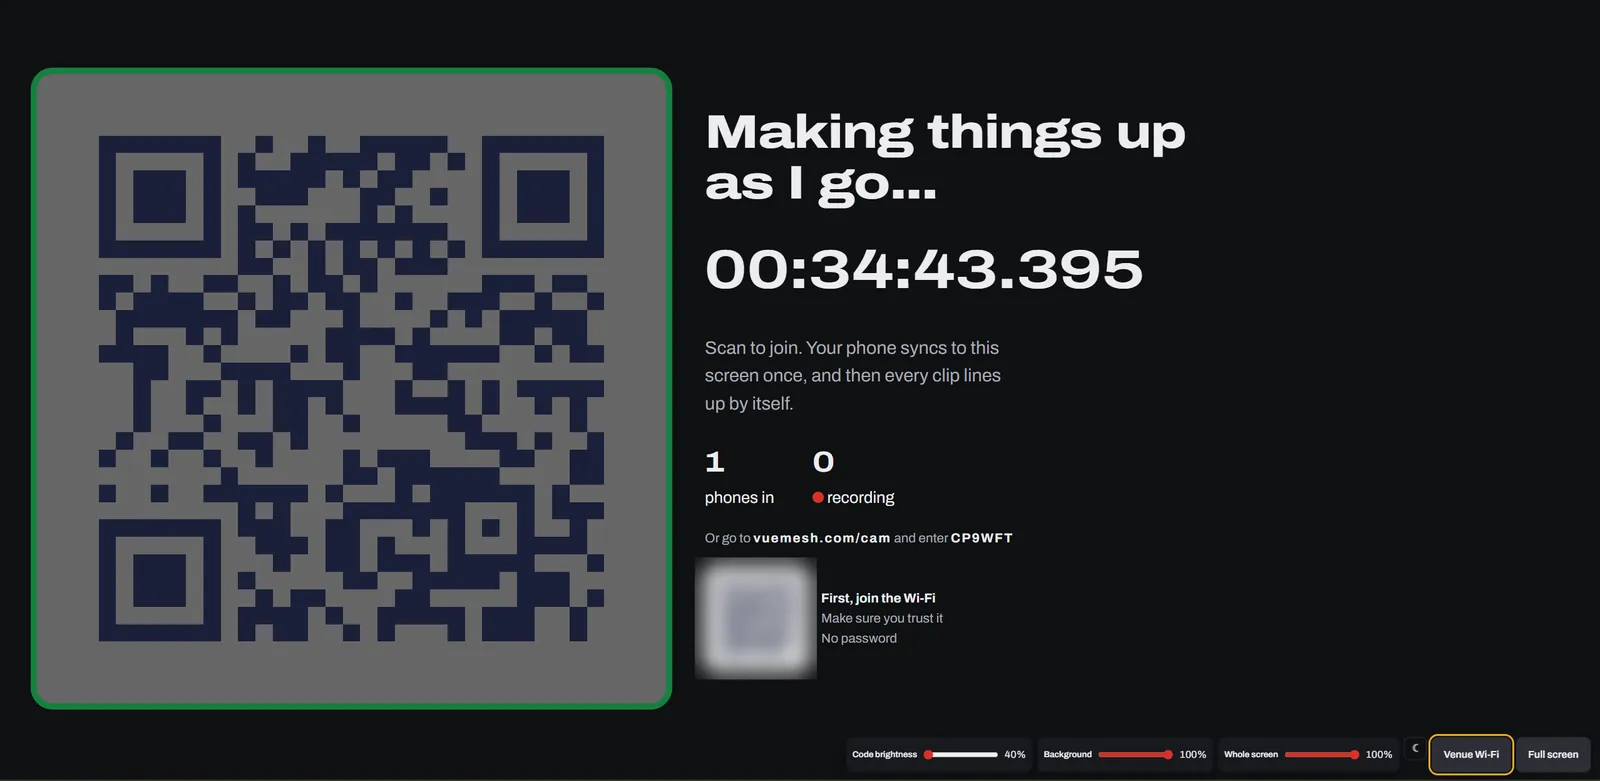
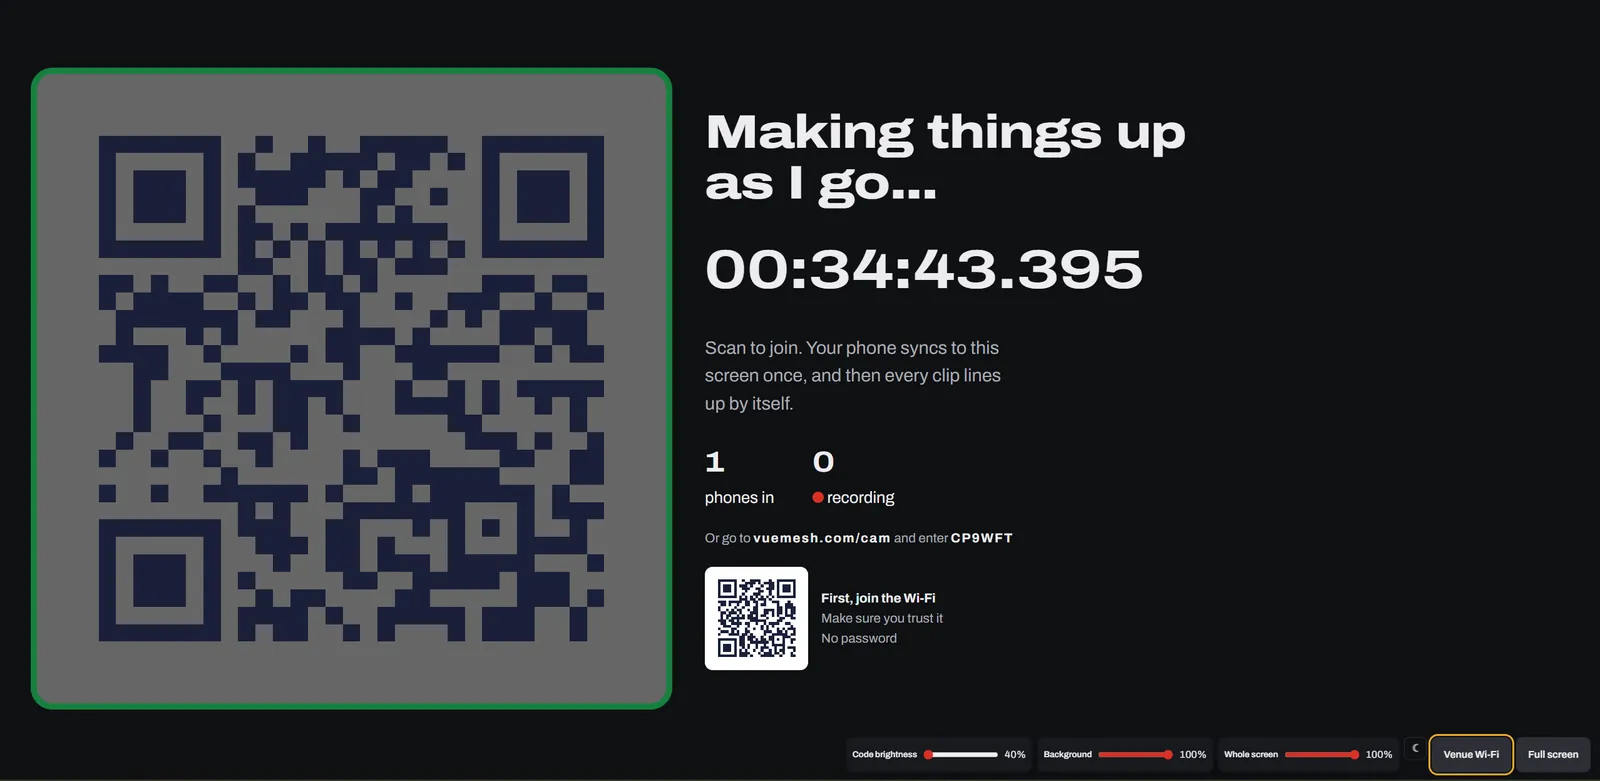
Link the tour from home and Partners; beacon picture unblurred
Claude-Session: https://claude.ai/code/session_01CCdNtZ2vnMoVWwfp3Y5omG

Changed region(s): [[0.4375, 0.7068, 0.5312, 0.8912]]

diff --git a/public/sponsors.html b/public/sponsors.html
@@ -34,6 +34,7 @@
   h1 { font-size: clamp(2.4rem, 7vw, 5rem); line-height: .95; letter-spacing: -.02em; max-width: 15ch; }
   .lede { font-size: 1.2rem; color: var(--text-2); max-width: 60ch; }
   .facts { display: flex; flex-wrap: wrap; gap: 8px; margin: 18px 0 0; padding: 0; list-style: none; }
+  .tourlink { margin: 18px 0 0; }
   .facts li { font-size: .85rem; font-weight: 600; padding: .35em .8em; border-radius: 999px; background: var(--surface); color: var(--text-2); }
   .partners { display: grid; grid-template-columns: repeat(2, minmax(0, 1fr)); gap: 14px; margin: 36px 0; }
   @media (max-width: 720px) { .partners { grid-template-columns: 1fr; } }
@@ -68,6 +69,7 @@
       <li>Video stays on the local network</li>
       <li>Built by one developer</li>
     </ul>
+    <p class="tourlink"><a class="btn" href="/tour">See every screen in the tour</a></p>
 
     <section class="partners" aria-label="Ways to partner">
       <article class="partner">

diff --git a/public/index.html b/public/index.html
@@ -566,7 +566,7 @@
 
   <section class="rig" id="setups" aria-labelledby="righ">
     <h2 id="righ">Use what's already in the drawer.</h2>
-    <p>Every screen with a browser can take a job in your show: the studio, a camera, a microphone, a screen, or the remote. Pick a setup and see how it fits together.</p>
+    <p>Every screen with a browser can take a job in your show: the studio, a camera, a microphone, a screen, or the remote. Pick a setup and see how it fits together, or <a href="/tour">take the tour of every screen</a>.</p>
     <div class="rigtabs" id="rigTabs" role="tablist" aria-label="Example setups"></div>
     <div class="flow" id="rigFlow" role="tabpanel" aria-live="polite">
       <div><h3>Sees and hears</h3><ul id="rigIn"></ul></div>

diff --git a/public/js/brand.js b/public/js/brand.js
@@ -22,4 +22,4 @@ export const sponsorContactHref = (subject = 'Partnering with VUEMesh') =>
     : BRAND.patreon;
 
 /** Shown in diagnostics reports (keep in step with package.json). */
-export const APP_VERSION = '0.56.2';
+export const APP_VERSION = '0.56.3';

diff --git a/CHANGELOG.md b/CHANGELOG.md
@@ -1,9 +1,15 @@
 # Changelog
 
+## 0.56.3 — the tour, linked
+**Deploy:** `./aws/deploy.sh` (site only).
+
+- **`/tour` is linked:** from the home page's "How it works" ("take the tour of every screen") and from the Partners page ("See every screen in the tour", under the facts).
+- **The beacon's picture shows its venue Wi‑Fi code** as it is (an open network: the beacon itself says "make sure you trust it").
+
 ## 0.56.2 — the tour's pictures
 **Deploy:** `./aws/deploy.sh` (site only).
 
-- **All eleven screenshots are in** (`public/media/screens/*.webp`, 16–230 KB each), from a real show: studio, beacon, kiosk, camera, microphone, audio console, camera control, monitor, remote, `/tv`, my media. The beacon's venue Wi‑Fi code is blurred (it names the network).
+- **All eleven screenshots are in** (`public/media/screens/*.webp`, 16–230 KB each), from a real show: studio, beacon, kiosk, camera, microphone, audio console, camera control, monitor, remote, `/tv`, my media.
 - **Each frame takes its picture's shape** instead of cropping to 16:10: the wide studio windows show whole, the camera is a phone held sideways, and My media is a phone (it was a computer frame).
 
 ## 0.56.1 — the remote sees the clips

diff --git a/docs/SCREENSHOTS.md b/docs/SCREENSHOTS.md
@@ -39,5 +39,5 @@ for portrait phones.
 
 ## When they're in
 
-All eleven are in (October 2026), taken from a real show. The tour isn't linked from anywhere
-yet: the home page's "How it works" and the Partners page are the natural places.
+All eleven are in (October 2026), taken from a real show. The tour is linked from the home page's
+"How it works" and from the Partners page.
